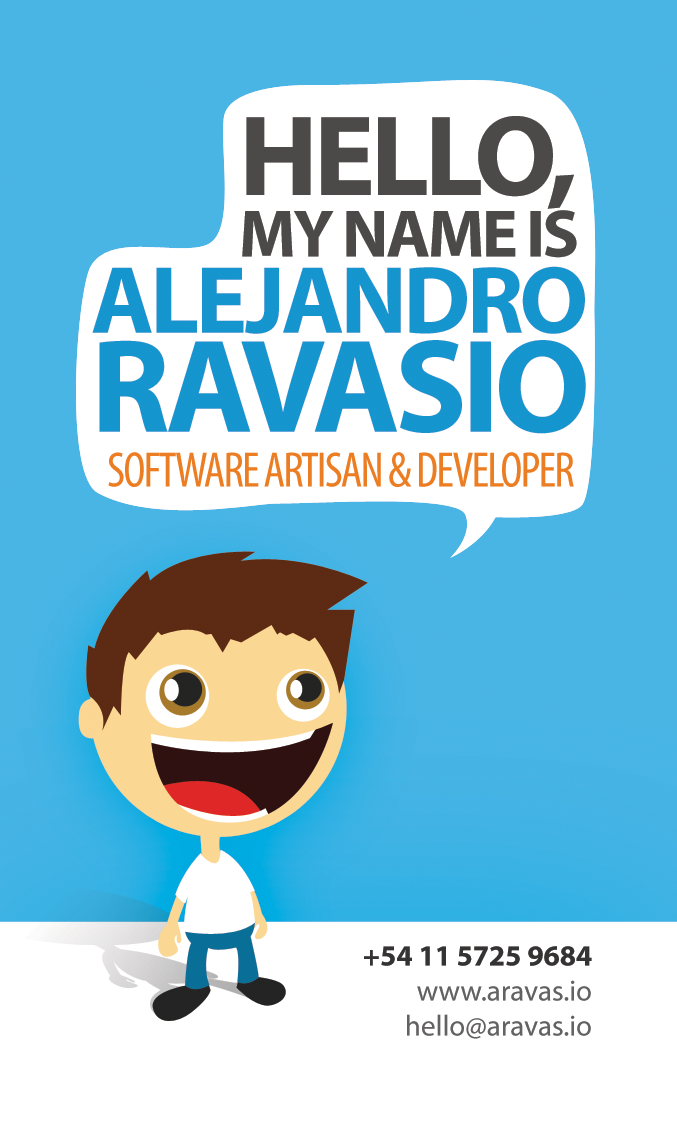
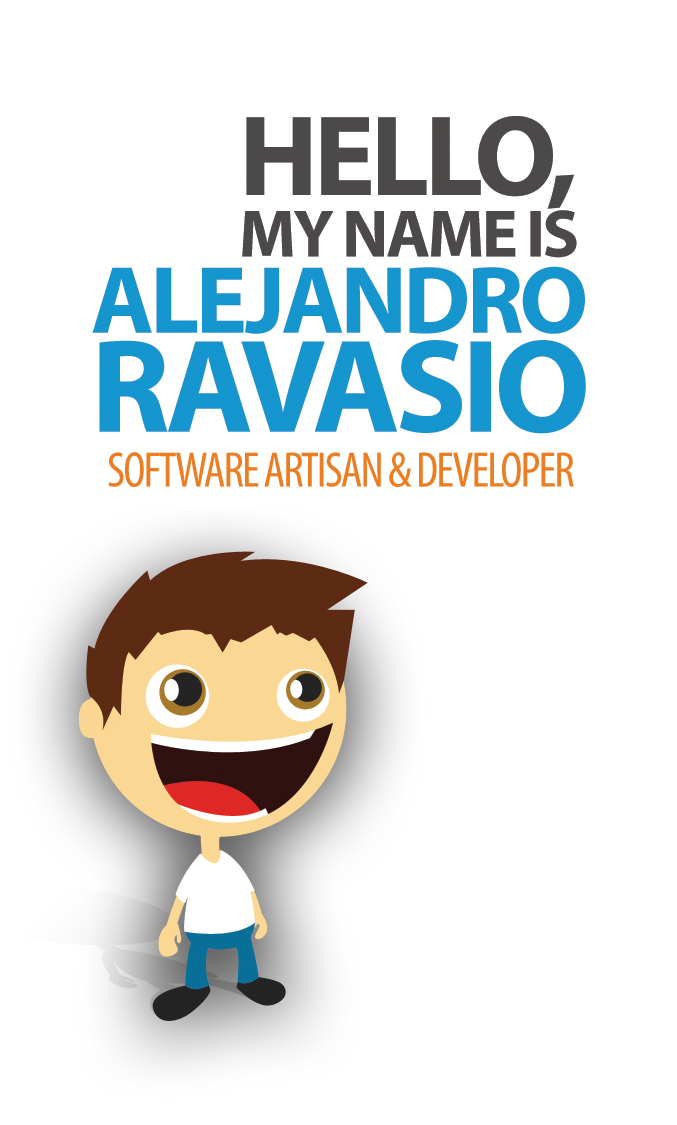
0.2 replaced card image for transparent-me image.

diff --git a/index.html b/index.html
@@ -2,20 +2,42 @@
 <html>
 <head>
 <style type="text/css">
+    html, body {
+        height: 100%;
+        overflow: hidden;
+    }
+
     body{
-        margin-left: 0px;
+        margin-left: 15%;
         margin-top: 0px;
         margin-bottom: 0px;
-        /*background-color: #49B5E4;*/
-        background-color: #49Bfff;
+        background-color: #ffffff;
     }
 
     .Card{
         /*max-width: 100%;*/
         max-height: 100%;
+        position: absolute;
+        z-index: 9
+    }
+    .background-white {
+        height: 80%;
+        position: absolute;
+        top:0%;
+        left:0;
+        width: 100%;
+        content: ' ';
+        background-color: #49B5E4;
     }
 </style>
 
+<body>
+    <div class="background-white">
+    </div>
     <img class="Card" src="card.png" />
+    <div class="linkedIn"></div>
+    <div class="github"></div>
+    <div class="email"></div>
+    <div class="phone"></div>c
 </body>
 </html>
